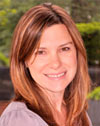
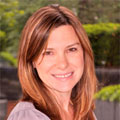
CD: Adjustments to the images used on a number of pages Former-commit-id: 104eb0394e0e4650db003b7aa9b03ea1bb2a8b99

diff --git a/brp/e-newsletter/notes-april-2016-funding-opportunities.html b/brp/e-newsletter/notes-april-2016-funding-opportunities.html
@@ -296,13 +296,13 @@ j=d.createElement(s),dl=l!='dataLayer'?'&l='+l:'';j.async=true;j.src=
       <tr>
         <td>Leveraging Cognitive    Neuroscience Research to Improve Assessment of Cancer Treatment Related    Cognitive Impairment<br>
           <br>          <a href="http://grants.nih.gov/grants/guide/pa-files/PAR-16-212.html">PAR-16-212</a> (R01) &amp; <a href="http://grants.nih.gov/grants/guide/pa-files/PAR-16-213.html">PAR-16-213</a> (R21)</td>
-        <td><a href="http://staffprofiles.cancer.gov/brp/prgmStaffProfile.do?contactId=3501713&bioType=stf"><strong><img src="images/jerry-suls.jpg" alt="Jerry  Suls" width="100" height="126"></strong></a><br>          <a href="http://staffprofiles.cancer.gov/brp/prgmStaffProfile.do?contactId=3501713&bioType=stf">Jerry    Suls</a><br>
+        <td><a href="http://staffprofiles.cancer.gov/brp/prgmStaffProfile.do?contactId=3501713&bioType=stf"><strong><img src="images/jerry-suls.jpg" alt="Jerry  Suls" width="120" height="180"></strong></a><br>          <a href="http://staffprofiles.cancer.gov/brp/prgmStaffProfile.do?contactId=3501713&bioType=stf">Jerry    Suls</a><br>
           240-276-6811<br>          <a href="mailto:jerry.suls@nih.gov">jerry.suls@nih.gov</a></td>
       </tr>
       <tr>
         <td>Improving Smoking Cessation    in Socioeconomically Disadvantaged Populations via Scalable Interventions<br>
           <br>          <a href="http://grants.nih.gov/grants/guide/pa-files/PAR-16-202.html">PAR-16-202</a> (R01) &amp; <a href="http://grants.nih.gov/grants/guide/pa-files/PAR-16-201.html">PAR-16-201</a> (R21)</td>
-        <td><a href="http://staffprofiles.cancer.gov/brp/prgmStaffProfile.do?contactId=1439530&bioType=stf"><img src="images/yvonne-hunt.jpg" alt="Yvonne Hunt" width="100" height="126"></a><br>          <u><a href="http://staffprofiles.cancer.gov/brp/prgmStaffProfile.do?contactId=1439530&bioType=stf">Yvonne    Hunt</a></u><br>
+        <td><a href="http://staffprofiles.cancer.gov/brp/prgmStaffProfile.do?contactId=1439530&bioType=stf"><img src="images/yvonne-hunt.jpg" alt="Yvonne Hunt" width="120" height="120"></a><br>          <u><a href="http://staffprofiles.cancer.gov/brp/prgmStaffProfile.do?contactId=1439530&bioType=stf">Yvonne    Hunt</a></u><br>
           240-276-6975<br>          <u><a href="mailto:huntym@mail.nih.gov">huntym@mail.nih.gov</a></u></td>
       </tr>
     </table>

diff --git a/brp/e-newsletter/july-2016.html b/brp/e-newsletter/july-2016.html
@@ -354,7 +354,7 @@ j=d.createElement(s),dl=l!='dataLayer'?'&l='+l:'';j.async=true;j.src=
         <td><p>Improving Smoking Cessation in Socioeconomically    Disadvantaged Populations via Scalable Interventions<br>
           <br>
           <a href="http://grants.nih.gov/grants/guide/pa-files/PAR-16-202.html">PAR-16-202</a> (R01) &amp; <a href="http://grants.nih.gov/grants/guide/pa-files/PAR-16-201.html">PAR-16-201</a> (R21)</p></td>
-        <td class="right"><img src="images/yvonne-hunt.jpg" alt="Yvonne Hunt" width="100" height="126"><p><a href="http://staffprofiles.cancer.gov/brp/prgmStaffProfile.do?contactId=1439530&bioType=stf">Yvonne    Hunt</a><br>
+        <td class="right"><img src="images/yvonne-hunt.jpg" alt="Yvonne Hunt" width="120" height="120"><p><a href="http://staffprofiles.cancer.gov/brp/prgmStaffProfile.do?contactId=1439530&bioType=stf">Yvonne    Hunt</a><br>
           240-276-6975<br>
           <a href="mailto:yvonne.hunt@nih.gov">yvonne.hunt@nih.gov</a></p></td>
       </tr>
@@ -377,7 +377,7 @@ j=d.createElement(s),dl=l!='dataLayer'?'&l='+l:'';j.async=true;j.src=
         <td><p>Leveraging Cognitive Neuroscience Research to    Improve Assessment of Cancer Treatment Related Cognitive Impairment<br>
           <br>
           <a href="http://grants.nih.gov/grants/guide/pa-files/PAR-16-212.html">PAR-16-212</a> (R01) &amp; <a href="http://grants.nih.gov/grants/guide/pa-files/PAR-16-213.html">PAR-16-213</a> (R21)</p></td>
-        <td class="right"><img src="images/jerry-suls.jpg" width="100" height="126" alt="Jerry Suls"><p><a href="http://staffprofiles.cancer.gov/brp/prgmStaffProfile.do?contactId=3501713&bioType=stf">Jerry    Suls</a><br>
+        <td class="right"><img src="images/jerry-suls.jpg" width="120" height="180" alt="Jerry Suls"><p><a href="http://staffprofiles.cancer.gov/brp/prgmStaffProfile.do?contactId=3501713&bioType=stf">Jerry    Suls</a><br>
           240-276-6811<br>
           <a href="mailto:jerry.suls@nih.gov">jerry.suls@nih.gov</a></p></td>
       </tr>

diff --git a/funding-foa-applicants.html b/funding-foa-applicants.html
@@ -205,7 +205,7 @@ Resources for new Funding Announcements
         <td><p>Leveraging    Cognitive Neuroscience Research to Improve Assessment of Cancer Treatment    Related Cognitive Impairment<br>
           <br>
           <a href="http://grants.nih.gov/grants/guide/pa-files/PAR-16-212.html">PAR-16-212</a>&nbsp;(R01) &amp;&nbsp;<a href="http://grants.nih.gov/grants/guide/pa-files/PAR-16-213.html">PAR-16-213</a>&nbsp;(R21)</p></td>
-        <td class="right"><img src="/brp/e-newsletter/images/jerry-suls.jpg" width="100" height="126" alt="Jerry Suls">
+        <td class="right"><img src="/brp/e-newsletter/images/jerry-suls.jpg" width="120" height="180" alt="Jerry Suls">
         <p><a href="http://staffprofiles.cancer.gov/brp/prgmStaffProfile.do?contactId=3501713&bioType=stf">Jerry Suls</a><br>
           240-276-6811<br>
           <a href="mailto:jerry.suls@nih.gov">jerry.suls@nih.gov</a></p></td>
@@ -222,7 +222,7 @@ Resources for new Funding Announcements
         <td><p>Improving    Smoking Cessation in Socioeconomically Disadvantaged Populations via Scalable    Interventions<br>
           <br>
           <a href="http://grants.nih.gov/grants/guide/pa-files/PAR-16-202.html">PAR-16-202</a>&nbsp;(R01) &amp;&nbsp;<a href="http://grants.nih.gov/grants/guide/pa-files/PAR-16-201.html">PAR-16-201</a>&nbsp;(R21)</p></td>
-        <td class="right"><img src="/brp/e-newsletter/images/yvonne-hunt.jpg" alt="Yvonne Hunt" width="100" height="126"><p><a href="http://staffprofiles.cancer.gov/brp/prgmStaffProfile.do?contactId=1439530&bioType=stf">Yvonne Hunt</a><br>
+        <td class="right"><img src="/brp/e-newsletter/images/yvonne-hunt.jpg" alt="Yvonne Hunt" width="120" height="120"><p><a href="http://staffprofiles.cancer.gov/brp/prgmStaffProfile.do?contactId=1439530&bioType=stf">Yvonne Hunt</a><br>
           240-276-6975<br>
           <a href="mailto:yvonne.hunt@nih.gov">yvonne.hunt@nih.gov</a></p></td>
       </tr>
